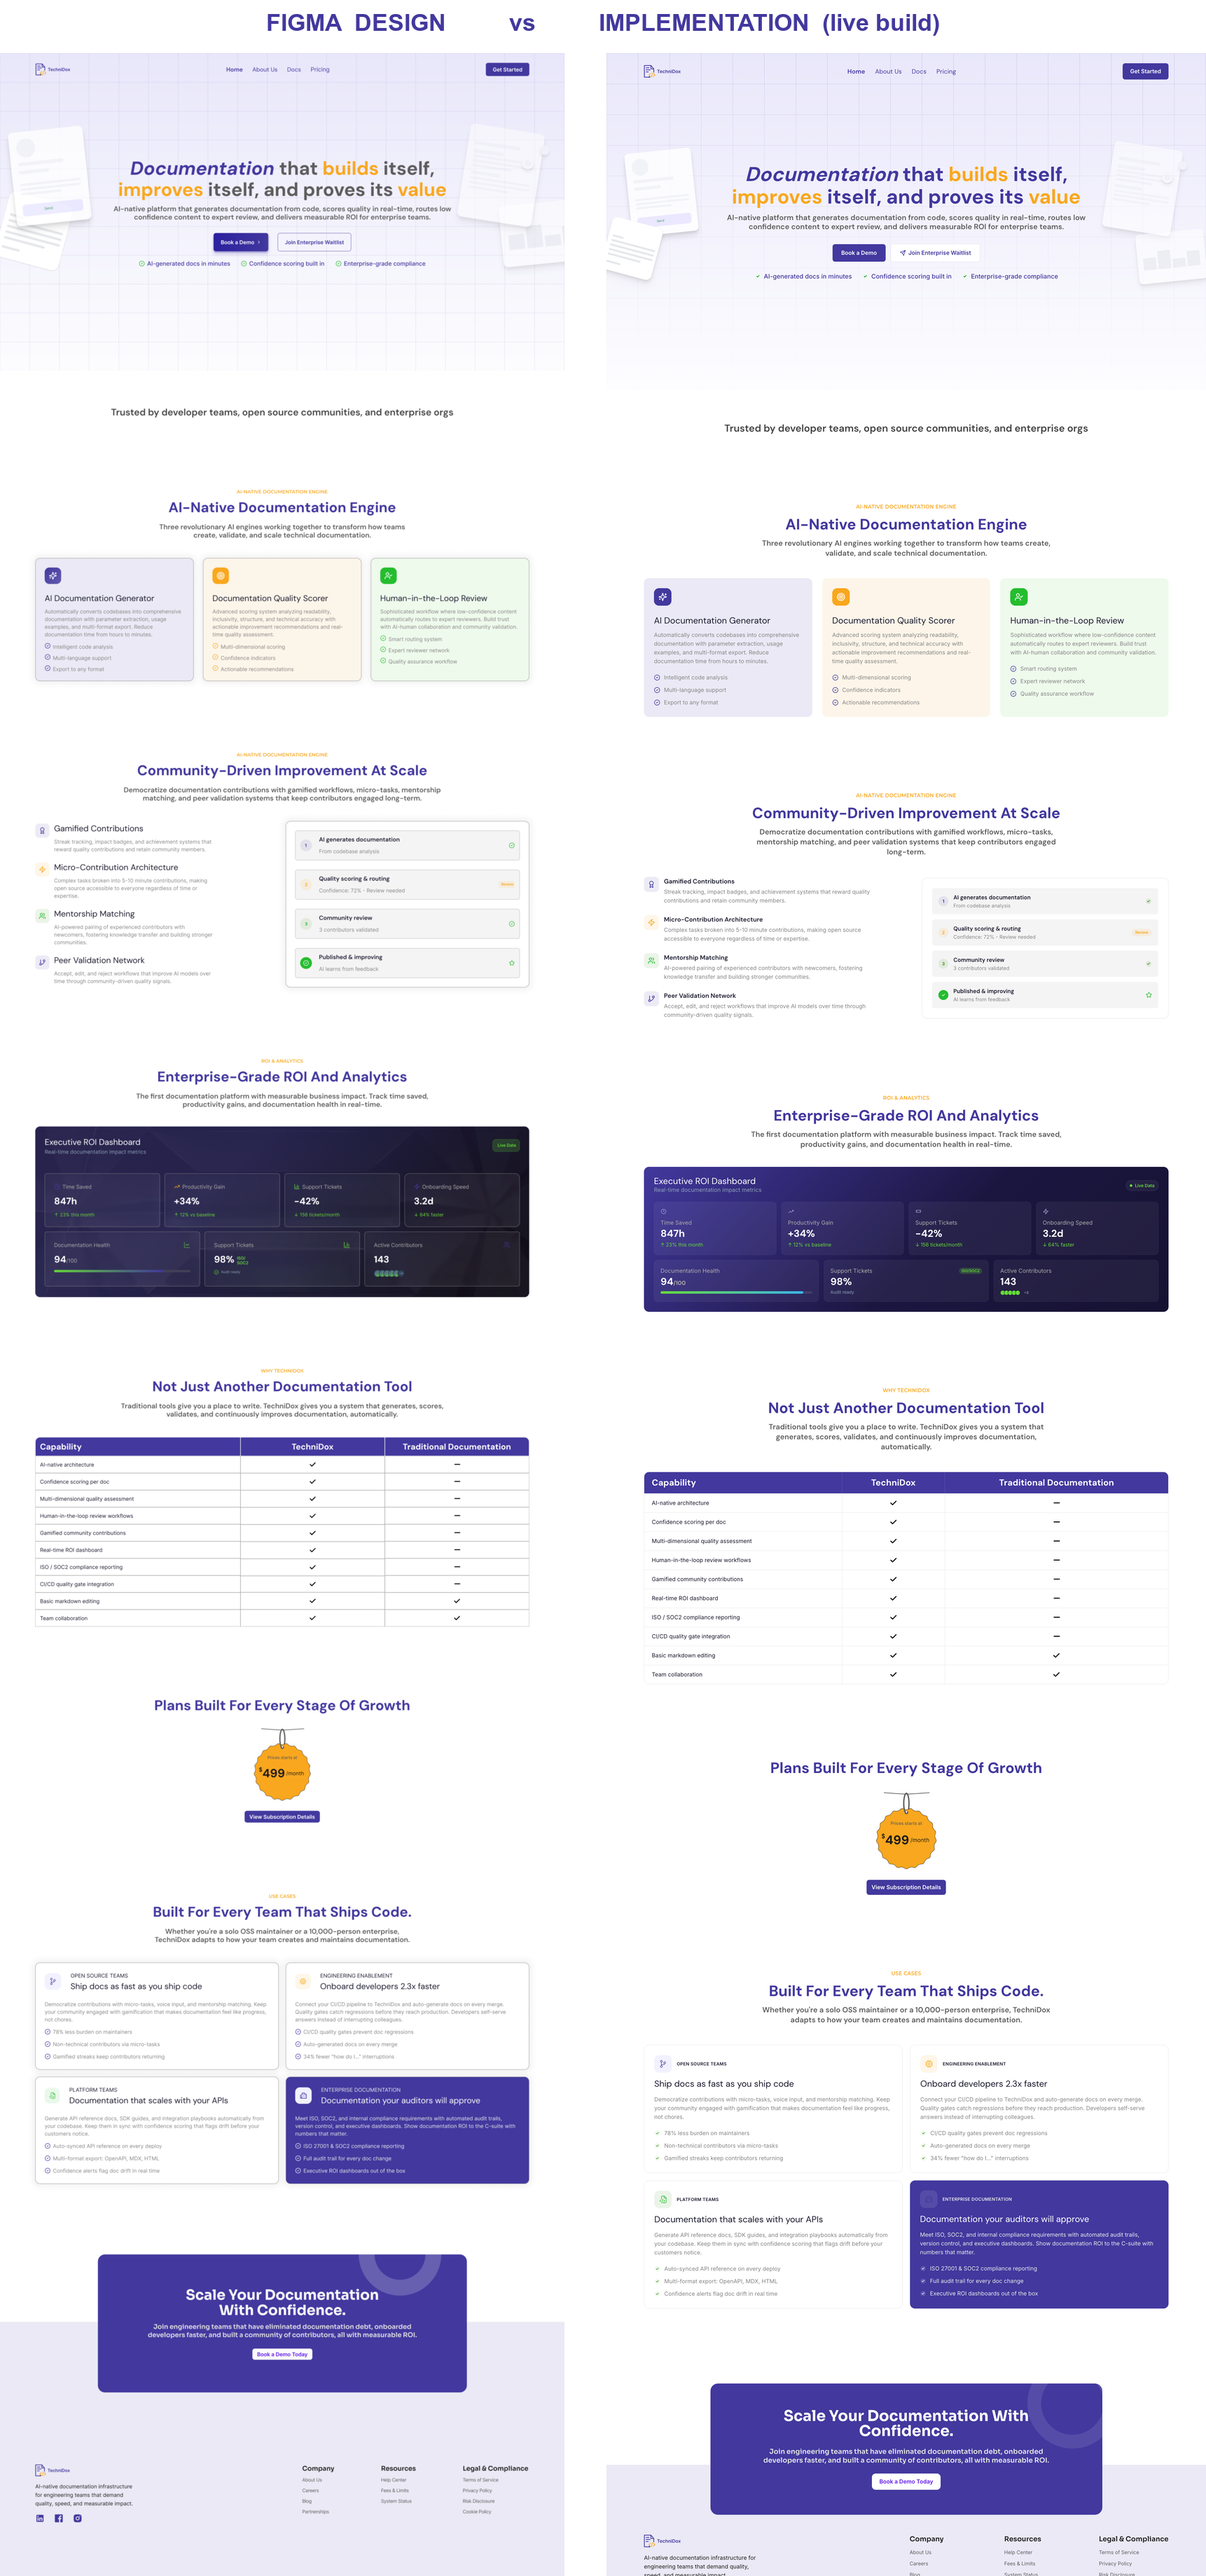
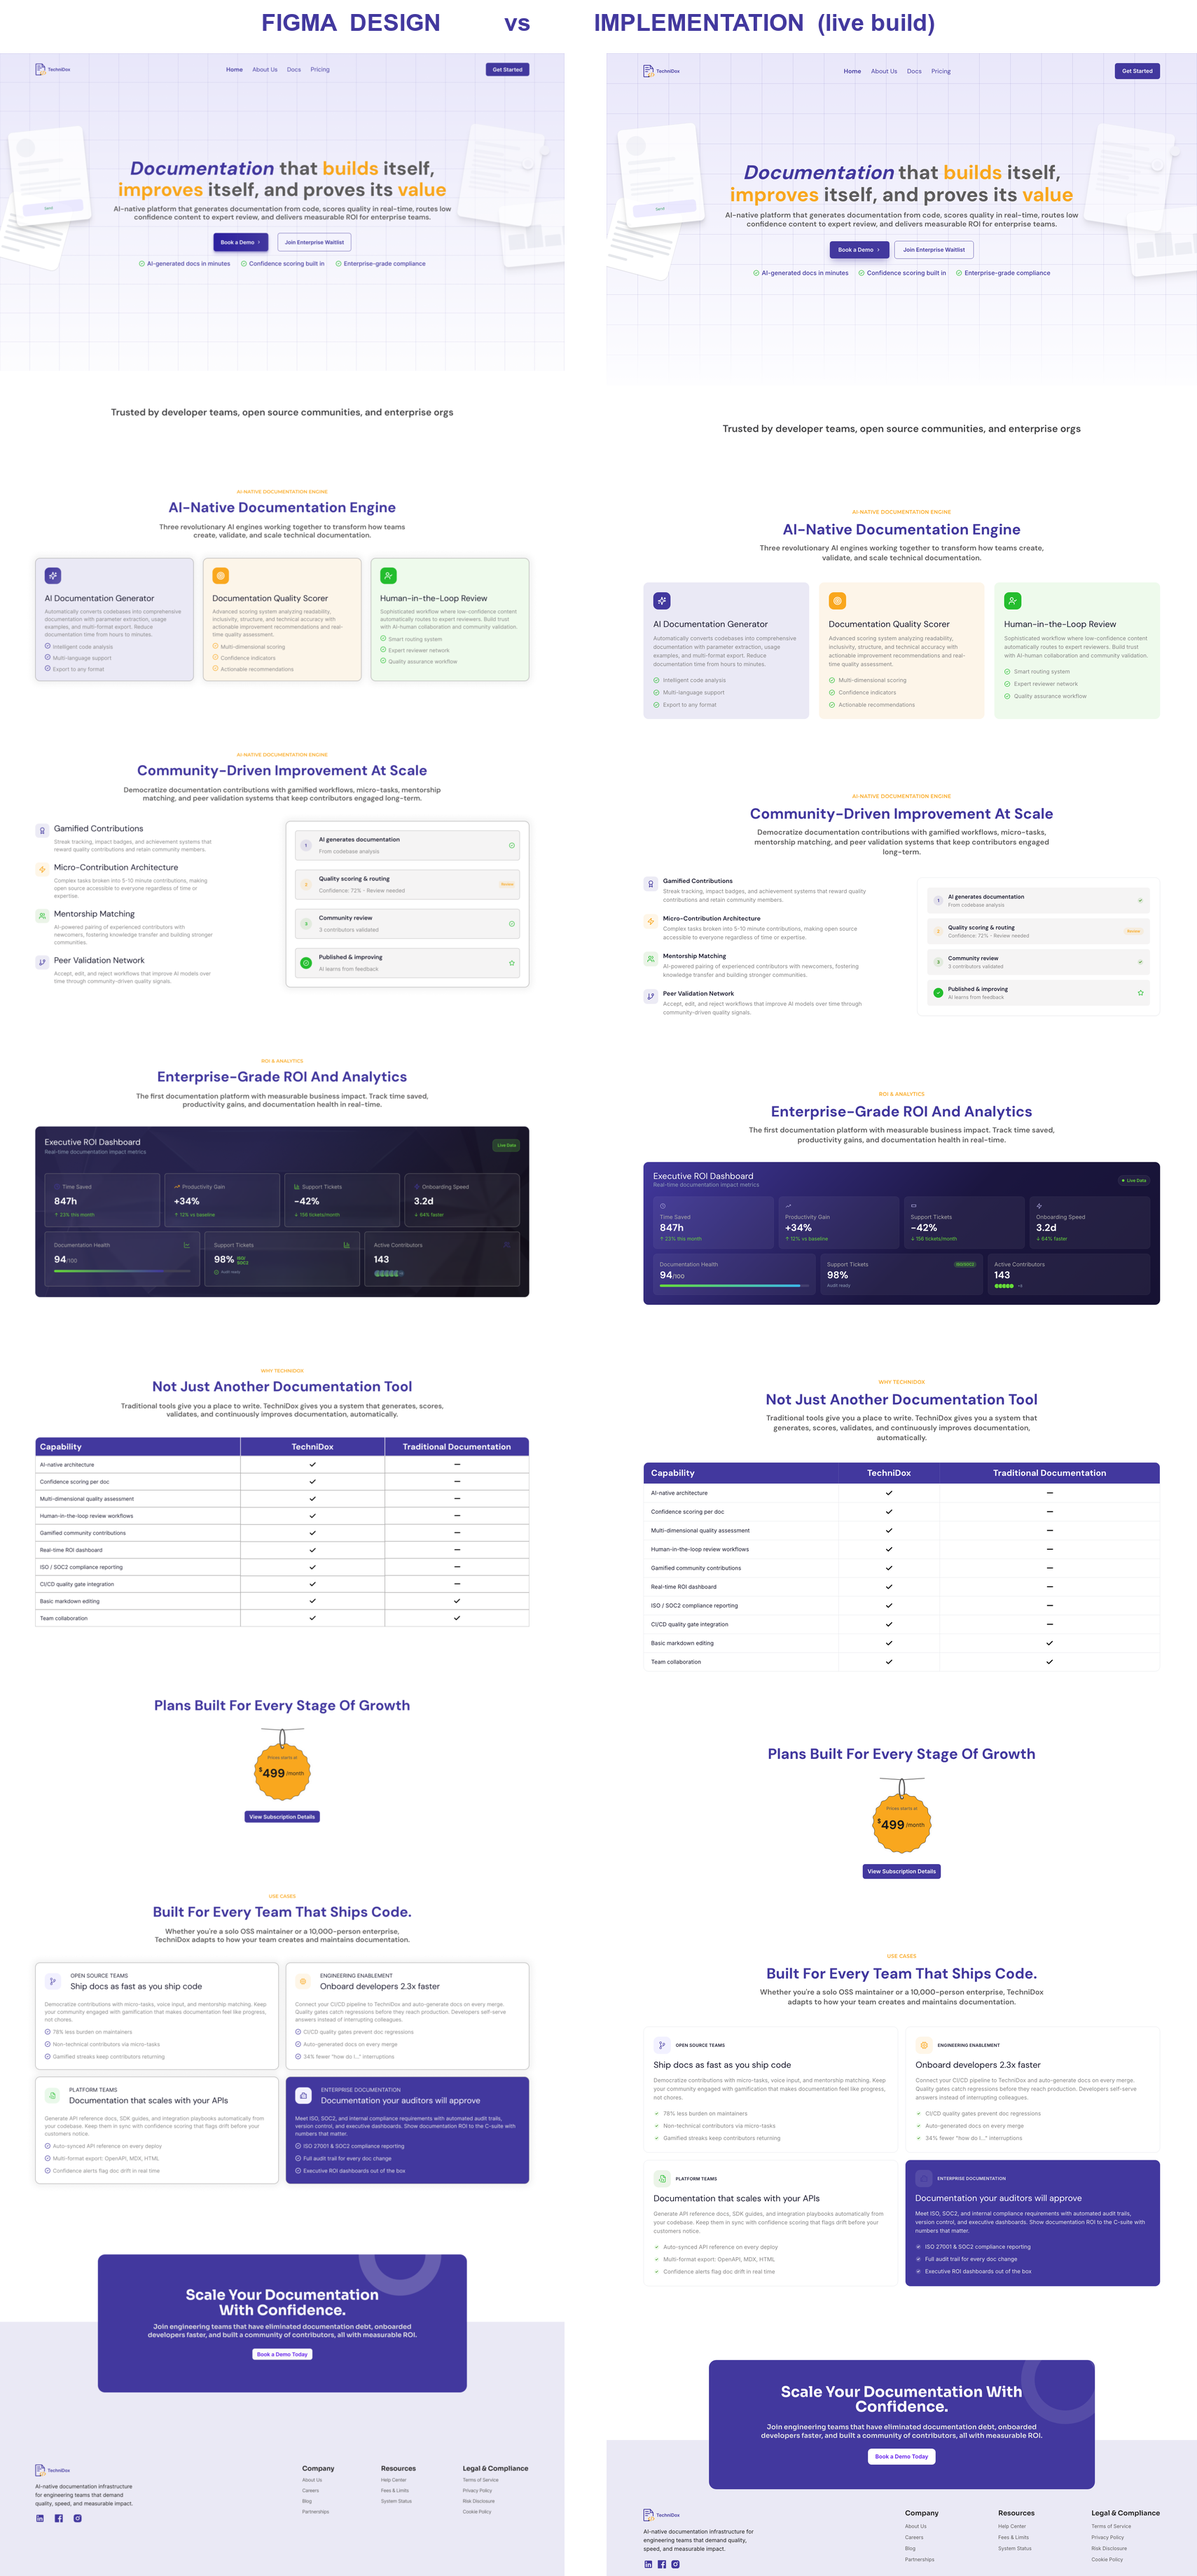
polish hero - colors, buttons, green checks, docs + refresh pixelay shots

diff --git a/components/HeroSection.vue b/components/HeroSection.vue
@@ -12,10 +12,12 @@ const features = [
 
     <!-- Floating document decorations (desktop only) -->
     <div class="pointer-events-none absolute inset-0 mx-auto hidden max-w-[1920px] 2xl:block">
-      <img src="/hero/doc-l1.png" alt="" class="absolute left-[40px] top-[300px] w-[272px]" />
-      <img src="/hero/card-l2.png" alt="" class="absolute -left-[22px] top-[520px] w-[206px] drop-shadow-xl" />
-      <img src="/hero/doc-r1.png" alt="" class="absolute right-[50px] top-[270px] w-[300px]" />
-      <img src="/hero/doc-r2.png" alt="" class="absolute -right-[20px] top-[560px] w-[262px]" />
+      <!-- lines doc sits behind, peeking out bottom-left -->
+      <img src="/hero/card-l2.png" alt="" class="absolute -left-[22px] top-[464px] w-[275px]" />
+      <!-- front document with the Send button (must stay on top so the button shows) -->
+      <img src="/hero/doc-l1.png" alt="" class="absolute left-[15px] top-[224px] w-[325px]" />
+      <img src="/hero/doc-r1.png" alt="" class="absolute right-[43px] top-[215px] w-[346px]" />
+      <img src="/hero/doc-r2.png" alt="" class="absolute -right-[95px] top-[490px] w-[345px]" />
     </div>
 
     <!-- Hero content -->
@@ -23,9 +25,9 @@ const features = [
       <div class="flex max-w-[1255px] flex-col items-center gap-10">
         <div class="flex flex-col items-center gap-4">
           <h1
-            class="font-display text-[34px] font-bold leading-[1.12] text-indigo sm:text-[48px] sm:leading-[1.12] 2xl:text-[64px] 2xl:leading-[72px]"
+            class="font-display text-[34px] font-bold leading-[1.12] text-body sm:text-[48px] sm:leading-[1.12] 2xl:text-[64px] 2xl:leading-[72px]"
           >
-            <span class="italic">Documentation</span> that
+            <span class="italic text-indigo">Documentation</span> that
             <span class="text-accent">builds</span> itself,
             <span class="text-accent">improves</span> itself, and proves its
             <span class="text-accent">value</span>
@@ -45,18 +47,17 @@ const features = [
         <div class="flex flex-col items-center gap-4 sm:flex-row">
           <a
             href="#pricing"
-            class="rounded-lg bg-indigo px-7 py-3.5 font-sans text-lg font-semibold text-white transition-colors hover:bg-indigo/90"
+            class="inline-flex items-center gap-2 rounded-lg bg-indigo px-7 py-3.5 font-sans text-lg font-semibold text-white shadow-[0_12px_24px_-6px_rgba(66,56,158,0.45)] transition-all hover:bg-indigo/90 hover:shadow-[0_14px_28px_-6px_rgba(66,56,158,0.55)]"
           >
             Book a Demo
+            <svg width="16" height="16" viewBox="0 0 24 24" fill="none" stroke="currentColor" stroke-width="2.2" stroke-linecap="round" stroke-linejoin="round">
+              <path d="m9 18 6-6-6-6" />
+            </svg>
           </a>
           <a
             href="#"
-            class="inline-flex items-center gap-2 rounded-lg border border-line bg-white px-7 py-3.5 font-sans text-lg font-semibold text-indigo transition-colors hover:bg-tint-indigo"
+            class="rounded-lg border border-indigo bg-transparent px-7 py-3.5 font-sans text-lg font-semibold text-indigo transition-colors hover:bg-indigo/5"
           >
-            <svg width="20" height="20" viewBox="0 0 24 24" fill="none" stroke="currentColor" stroke-width="2" stroke-linecap="round" stroke-linejoin="round">
-              <path d="m22 2-7 20-4-9-9-4Z" />
-              <path d="M22 2 11 13" />
-            </svg>
             Join Enterprise Waitlist
           </a>
         </div>
@@ -68,9 +69,9 @@ const features = [
             :key="f"
             class="flex items-center gap-2 font-sans text-lg font-medium text-indigo 2xl:text-xl"
           >
-            <svg width="22" height="22" viewBox="0 0 24 24" fill="none" class="shrink-0">
-              <circle cx="12" cy="12" r="10" fill="#EEFAEC" />
-              <path d="m8 12 2.5 2.5L16 9" stroke="#008236" stroke-width="2" stroke-linecap="round" stroke-linejoin="round" />
+            <svg width="20" height="20" viewBox="0 0 20 20" fill="none" class="shrink-0">
+              <circle cx="10" cy="10" r="8.2" stroke="#24BD2E" stroke-width="1.6" />
+              <path d="m6.4 10.2 2.3 2.3 4.9-5" stroke="#24BD2E" stroke-width="1.6" stroke-linecap="round" stroke-linejoin="round" />
             </svg>
             {{ f }}
           </li>

diff --git a/components/AiNativeSection.vue b/components/AiNativeSection.vue
@@ -63,7 +63,10 @@ const cards = [
                 :key="f"
                 class="flex items-center gap-3 font-sans text-base font-normal text-muted 2xl:text-lg"
               >
-                <img src="/icons/check-sm.svg" alt="" class="h-5 w-5 shrink-0" />
+                <svg width="20" height="20" viewBox="0 0 20 20" fill="none" class="shrink-0">
+                  <circle cx="10" cy="10" r="8.2" stroke="#24BD2E" stroke-width="1.6" />
+                  <path d="m6.4 10.2 2.3 2.3 4.9-5" stroke="#24BD2E" stroke-width="1.6" stroke-linecap="round" stroke-linejoin="round" />
+                </svg>
                 {{ f }}
               </li>
             </ul>

diff --git a/assets/css/main.css b/assets/css/main.css
@@ -41,7 +41,7 @@
       linear-gradient(to right, rgba(66, 56, 158, 0.2) 1px, transparent 1px),
       linear-gradient(to bottom, rgba(66, 56, 158, 0.2) 1px, transparent 1px);
     background-size: 101px 98px;
-    -webkit-mask-image: linear-gradient(to bottom, #000 0%, transparent 100%);
-    mask-image: linear-gradient(to bottom, #000 0%, transparent 100%);
+    -webkit-mask-image: linear-gradient(to bottom, #000 0%, #000 72%, transparent 100%);
+    mask-image: linear-gradient(to bottom, #000 0%, #000 72%, transparent 100%);
   }
 }

diff --git a/components/BrandStrip.vue b/components/BrandStrip.vue
@@ -1,5 +1,5 @@
 <template>
-  <section class="bg-white py-16 sm:py-20 2xl:py-[100px]">
+  <section class="bg-white py-16 sm:py-20 2xl:py-[120px]">
     <div class="wrap">
       <p
         class="text-center font-display text-xl font-semibold text-[#434345] sm:text-2xl 2xl:text-[32px] 2xl:leading-[40px]"
